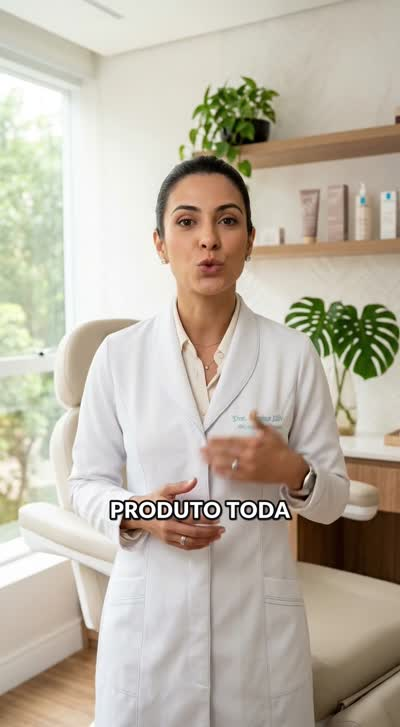
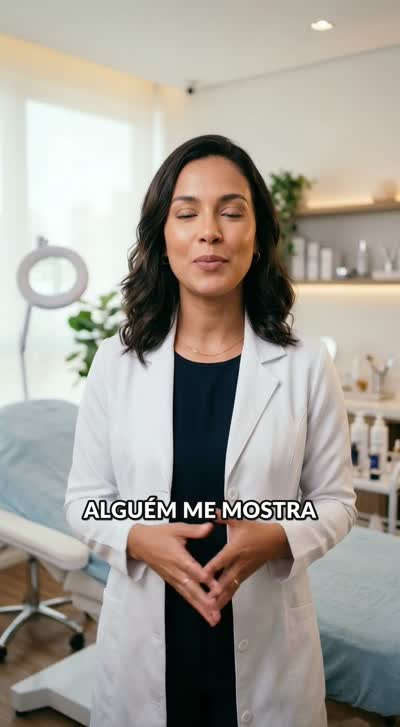
Fix: gênero da voz nos exemplos vinha de regex no look (mulher saía com voz de homem)
gen-examples agora usa o campo gender explícito da prévia (regex só
como fallback), loga "persona (gênero) -> voz (gênero)" e aceita slugs
por argv pra regenerar um exemplo só. Estética regenerada: Luiza
Andrade (feminina) -> voz Laura (feminina).

diff --git a/scripts/gen-examples.ts b/scripts/gen-examples.ts
@@ -31,11 +31,17 @@ const NICHES = [
   { slug: "cafeteria", niche: "cafeteria de bairro especializada em café especial", useCase: "Negócio local", music: "inspirador" },
 ];
 
-function voiceFor(look: string, seed = 0): string {
-  const female = /mulher|feminin|garota|moça|jovem de|ela /i.test(look);
-  const pool = CURATED_VOICES.filter((v) => (female ? v.gender === "feminina" : v.gender === "masculina"));
+// Usa o GENDER explícito da prévia (a regex no look falhava: "esteticista..." não
+// casa com /mulher|feminin/ → mulher saía com voz de homem). Regex é só fallback.
+function voiceFor(persona: { gender?: string; look?: string }, seed = 0): { id: string; label: string } {
+  const g =
+    persona.gender === "feminina" || persona.gender === "masculina"
+      ? persona.gender
+      : /mulher|feminin|garota|moça|ela /i.test(persona.look ?? "") ? "feminina" : "masculina";
+  const pool = CURATED_VOICES.filter((v) => v.gender === g);
   const list = pool.length ? pool : CURATED_VOICES;
-  return list[Math.abs(seed) % list.length].id;
+  const v = list[Math.abs(seed) % list.length];
+  return { id: v.id, label: `${v.name} (${v.gender})` };
 }
 
 async function genOne(item: (typeof NICHES)[number]): Promise<{ slug: string; persona: string; seconds: number } | null> {
@@ -66,7 +72,9 @@ async function genOne(item: (typeof NICHES)[number]): Promise<{ slug: string; pe
       shots: lines.map((d) => ({ visual_prompt: "x", dialogue: d, camera: "medium shot" })),
     };
     const voiceFile = path.join(tmp, "voice.mp3");
-    const narr = await generateNarration({ script, voice: voiceFor(persona.look ?? "", item.slug.split("").reduce((a, c) => a + c.charCodeAt(0), 0)), outFile: voiceFile });
+    const voice = voiceFor(persona, item.slug.split("").reduce((a, c) => a + c.charCodeAt(0), 0));
+    console.log(`[gen] ${item.slug}: persona ${persona.name} (${persona.gender ?? "?"}) → voz ${voice.label}`);
+    const narr = await generateNarration({ script, voice: voice.id, outFile: voiceFile });
     const audioUrl = await hostPublic(`scripts/${Date.now().toString(36)}-voice.mp3`, fs.readFileSync(voiceFile), "audio/mpeg");
 
     // 3) take (InfiniteTalk) + 4) legendas
@@ -128,14 +136,16 @@ async function withRetry(item: (typeof NICHES)[number]) {
   return null;
 }
 
+const only = process.argv.slice(2);
+const TARGETS = only.length ? NICHES.filter((n) => only.includes(n.slug)) : NICHES;
 const started = Date.now();
 // concorrência 1: não compete com o worker de produção (E2E) pelo Atlas
-const results = (await mapLimit(NICHES, 3, withRetry)).filter(Boolean) as { slug: string; persona: string; seconds: number }[];
+const results = (await mapLimit(TARGETS, 3, withRetry)).filter(Boolean) as { slug: string; persona: string; seconds: number }[];
 const avg = results.length ? Math.round(results.reduce((a, b) => a + b.seconds, 0) / results.length) : 0;
 console.log("\n════════ RESUMO ════════");
 for (const r of results) console.log(`  ${r.slug.padEnd(14)} ${r.persona.padEnd(22)} ${r.seconds}s`);
 console.log(`  ───────────────────────`);
-console.log(`  gerados: ${results.length}/${NICHES.length}`);
+console.log(`  gerados: ${results.length}/${TARGETS.length}`);
 console.log(`  tempo MÉDIO por vídeo: ${avg}s (~${(avg / 60).toFixed(1)} min)`);
 console.log(`  wall-clock total (concorrência 2): ${Math.round((Date.now() - started) / 1000)}s`);
 process.exit(0);